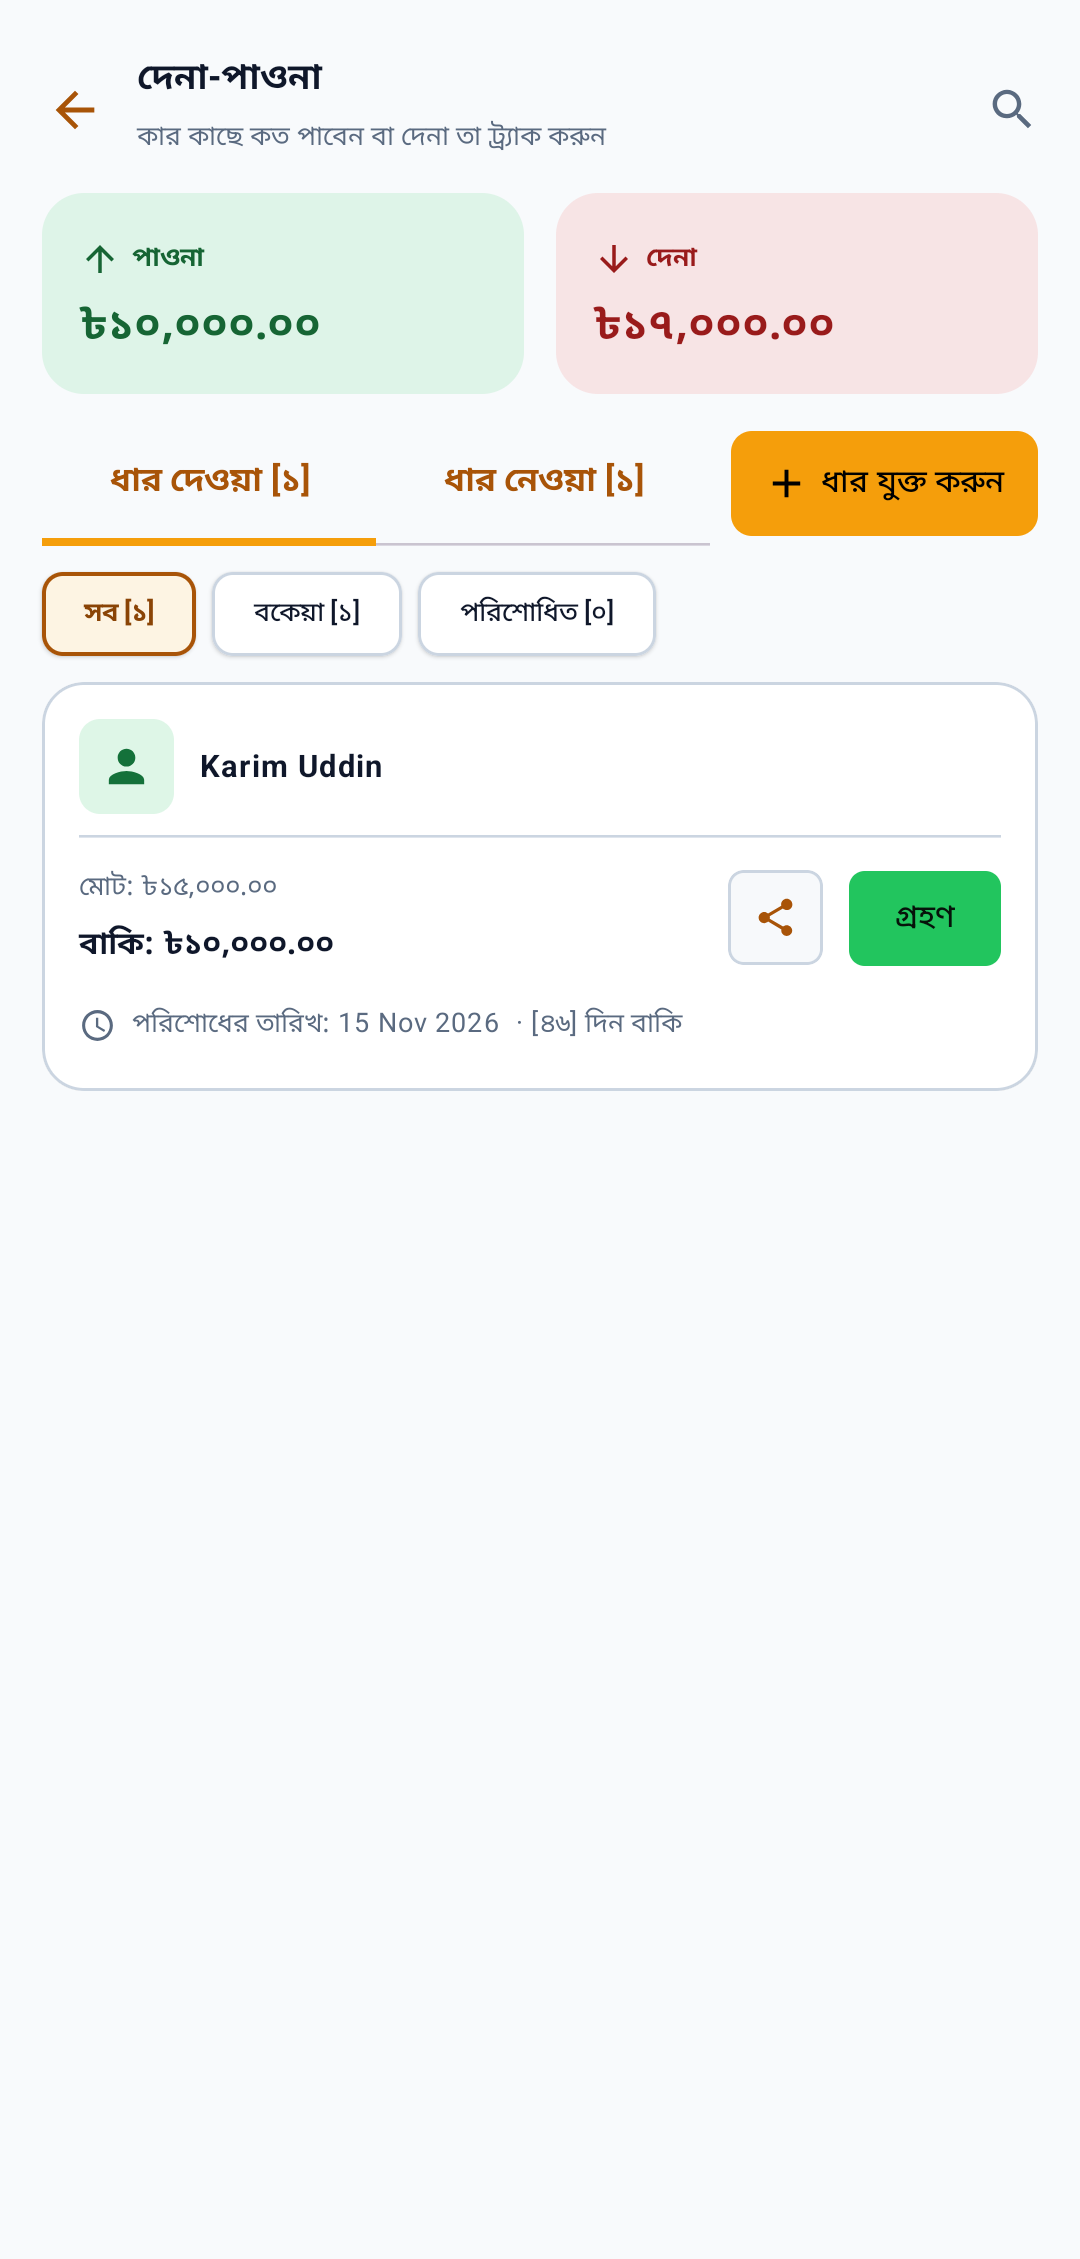
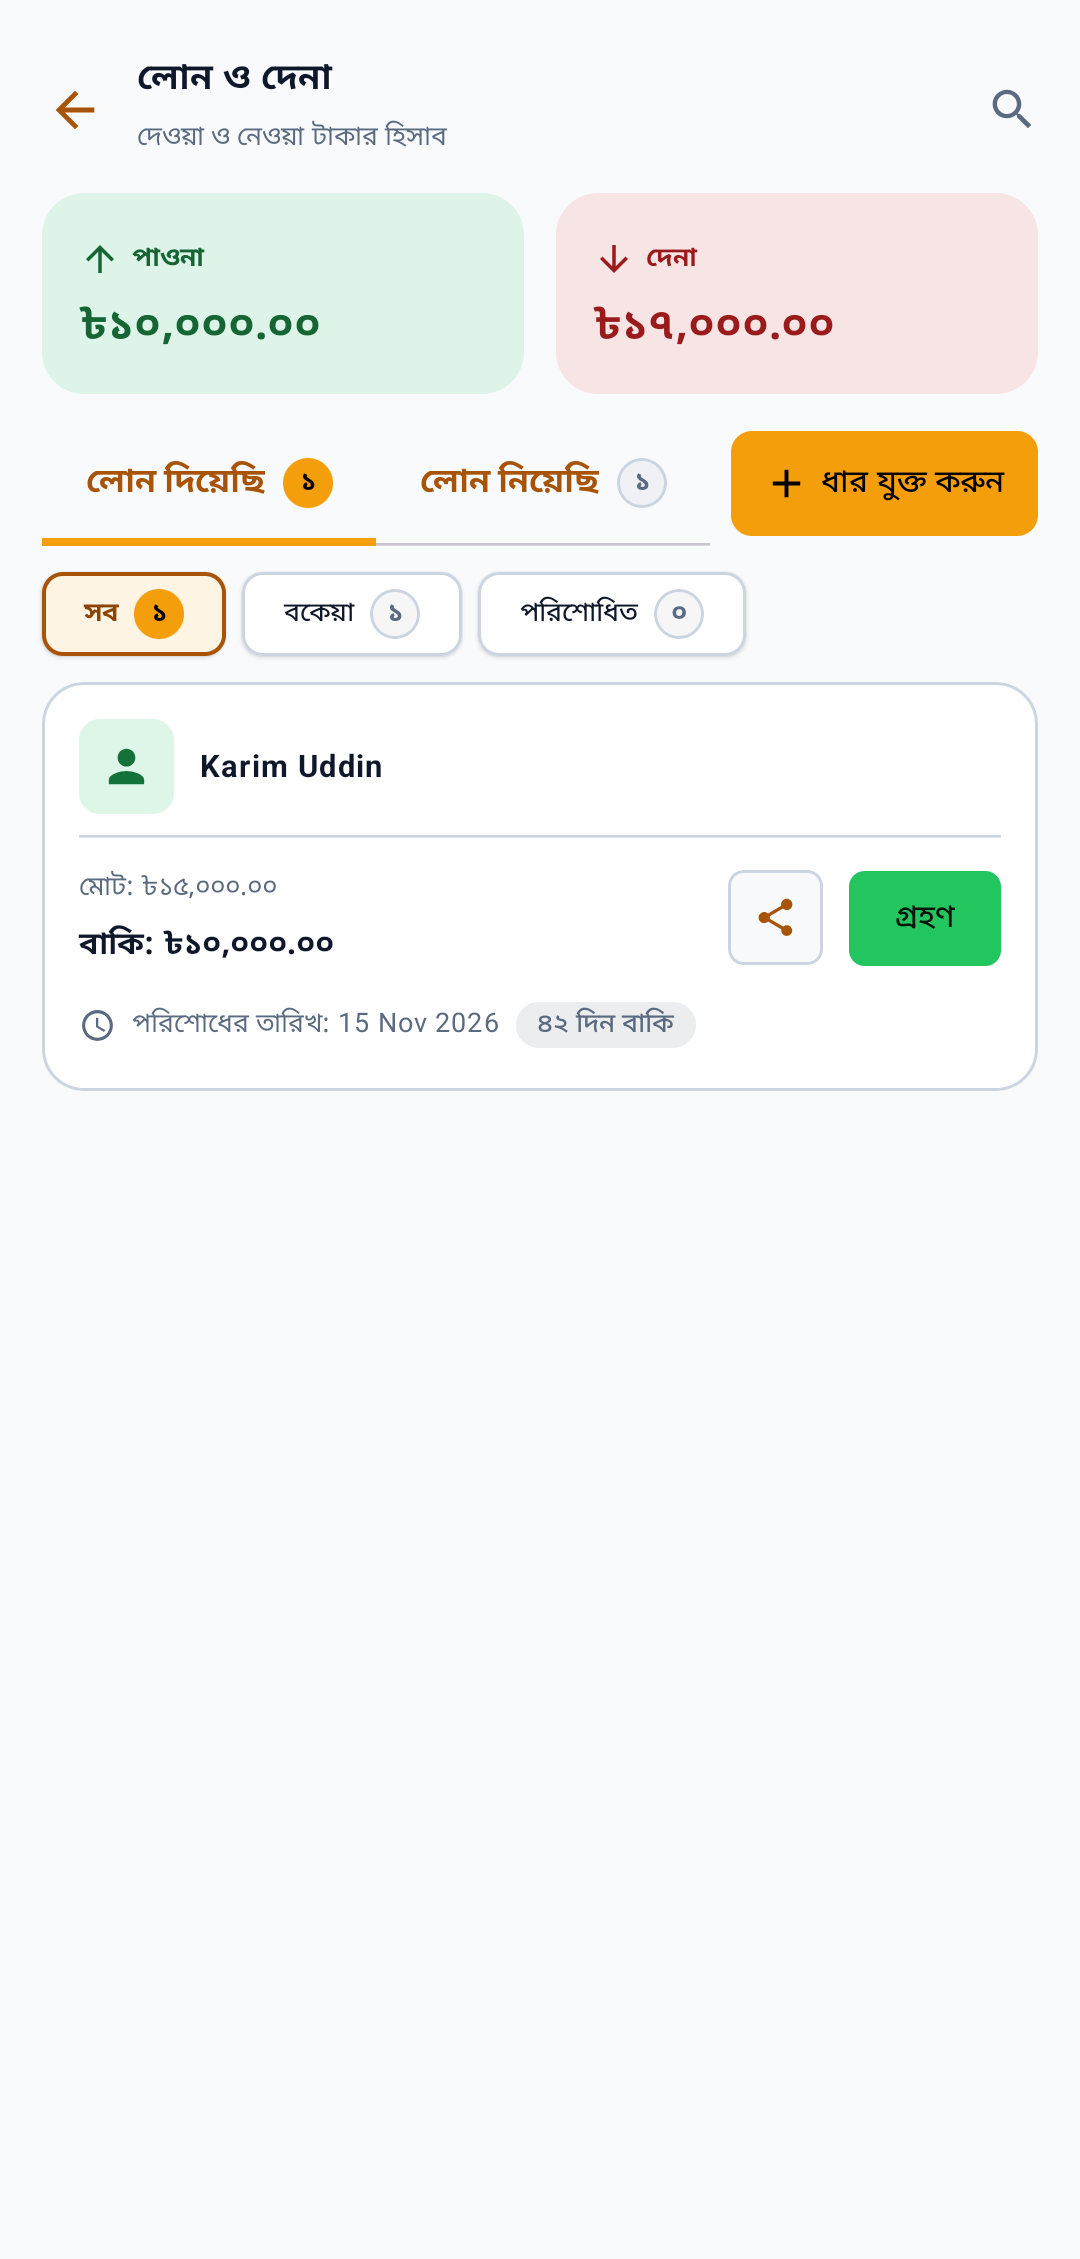
Website v2.13.2: pictures follow app 1.1.72
The six feature screens in both languages and themes, the three sign-up
screens of install step 4, and step 1's download prompt, retaken on a 1.1.72
debug build and the published 1.1.72. Counts are badges now, a loan's due date
reads in words, and the welcome screen has its new colours. The share picture
is redrawn from the new home screen.

diff --git a/features.html b/features.html
@@ -248,7 +248,7 @@
       <p data-s="footerNote">Built for keeping one household’s books. No trackers on this page.</p>
     </div>
     <p class="foot-links">
-      <span class="foot-ver" data-site-version>Website v2.13.1</span>
+      <span class="foot-ver" data-site-version>Website v2.13.2</span>
       <a href="privacy.html" data-s="navPrivacy">Privacy</a>
       <a href="install.html" data-s="navInstall">How to install</a>
     </p>

diff --git a/index.html b/index.html
@@ -314,7 +314,7 @@
       <p data-s="footerNote">Built for keeping one household’s books. No trackers on this page.</p>
     </div>
     <p class="foot-links">
-      <span class="foot-ver" data-site-version>Website v2.13.1</span>
+      <span class="foot-ver" data-site-version>Website v2.13.2</span>
       <a href="privacy.html" data-s="navPrivacy">Privacy</a>
       <a href="install.html" data-s="navInstall">How to install</a>
     </p>

diff --git a/install.html b/install.html
@@ -219,7 +219,7 @@
       <p data-s="footerNote">Built for keeping one household’s books. No trackers on this page.</p>
     </div>
     <p class="foot-links">
-      <span class="foot-ver" data-site-version>Website v2.13.1</span>
+      <span class="foot-ver" data-site-version>Website v2.13.2</span>
       <a href="privacy.html" data-s="navPrivacy">Privacy</a>
       <a href="install.html" data-s="navInstall">How to install</a>
     </p>

diff --git a/privacy.html b/privacy.html
@@ -199,7 +199,7 @@
       <p data-s="footerNote">Built for keeping one household’s books. No trackers on this page.</p>
     </div>
     <p class="foot-links">
-      <span class="foot-ver" data-site-version>Website v2.13.1</span>
+      <span class="foot-ver" data-site-version>Website v2.13.2</span>
       <a href="privacy.html" data-s="navPrivacy">Privacy</a>
       <a href="install.html" data-s="navInstall">How to install</a>
     </p>

diff --git a/assets/site.js b/assets/site.js
@@ -28,7 +28,7 @@ document.documentElement.classList.add('js');
  * number for a fix to what is there, the middle one for a new page, section or feature.
  * The app's version is a separate thing and comes from the releases API.
  */
-const SITE_VERSION = '2.13.1';
+const SITE_VERSION = '2.13.2';
 
 const LANGS = { en: 0, bn: 1 };
 // The language actually on the page. Where storage is blocked the saved choice cannot

diff --git a/CHANGELOG.md b/CHANGELOG.md
@@ -12,7 +12,8 @@ Counted back over the history when the number was introduced; repository houseke
 
 | Version | Date | Commit | What |
 |---|---|---|---|
-| 2.13.1 | 2026-10-04 | — | Fourteen fixes from a review; install page fits 320px; step 1 retaken on 1.1.71 |
+| 2.13.2 | 2026-10-04 | — | Pictures follow app 1.1.72: count badges, loan days in words, the new welcome screen; step 1 on 1.1.72 |
+| 2.13.1 | 2026-10-04 | 46f6333 | Fourteen fixes from a review; install page fits 320px; step 1 retaken on 1.1.71 |
 | 2.13.0 | 2026-10-04 | 8dcad96 | Real screenshot in the hero; questions before installing; a share picture; the QR on phones; a note while the file downloads; balanced headings; cleaner install dialogs |
 | 2.12.3 | 2026-10-04 | 305292f | The header fits phones narrower than 375px |
 | 2.12.2 | 2026-10-04 | 0854e26 | Home: why cards and the at-a-glance list put the heading beside its icon |

diff --git a/README.md b/README.md
@@ -50,7 +50,7 @@ read — the ink is a step deeper for exactly that reason. The app hit this same
 
 ## The website's version
 
-Every footer says "Website v2.13.1". `CHANGELOG.md` lists every version and what it was. The number lives once, as SITE_VERSION at the top of
+Every footer says "Website v2.13.2". `CHANGELOG.md` lists every version and what it was. The number lives once, as SITE_VERSION at the top of
 `assets/site.js`, and is raised on every publish: the last part for a fix to what is
 there, the middle part for a new page, section or feature. It is the site's own version and
 has nothing to do with the app's.
